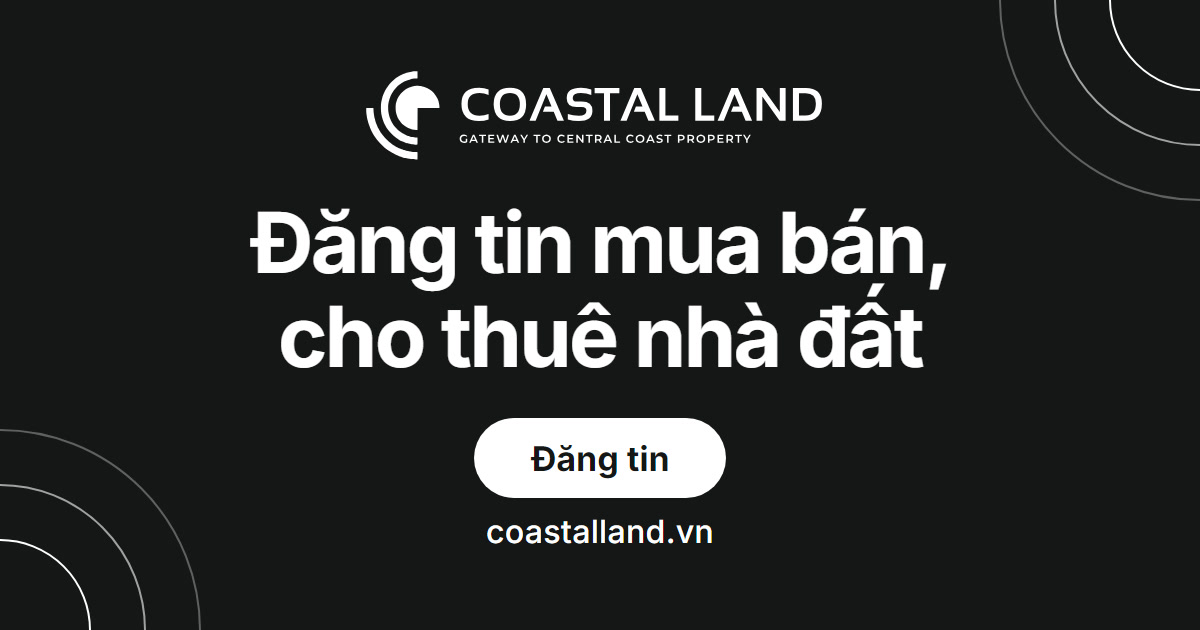
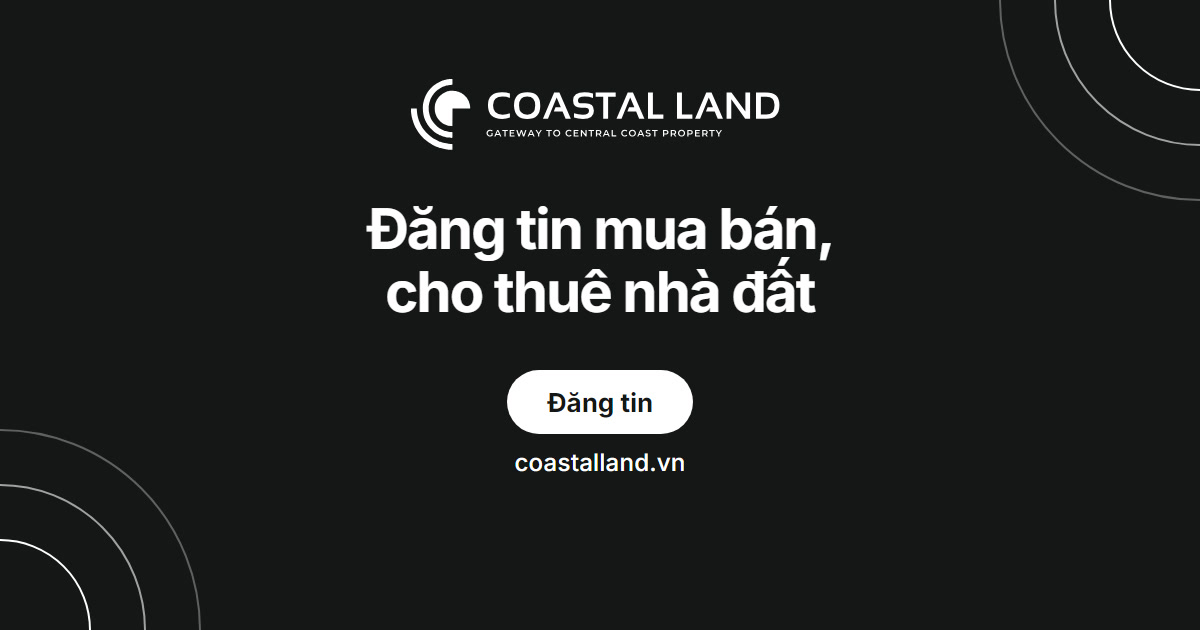
/dang-tin (+ ?mau=2..5): bo cau mo ta duoi anh lien ket (meta + og + twitter description), chi giu tieu de; 5 anh ve ban goc (anh bo ban chu to) - 14/11/2026

Changed region(s): [[0.185, 0.3317, 0.8017, 0.8746], [0.3083, 0.1206, 0.7092, 0.2714]]

diff --git a/src/app/dang-tin/metaDangTin.ts b/src/app/dang-tin/metaDangTin.ts
@@ -1,11 +1,11 @@
 import type { Metadata, ResolvingMetadata } from "next";
 
-// ẢNH ĐẠI DIỆN KHI DÁN LIÊN KẾT /dang-tin lên Facebook, Zalo (anh chọn 14/11/2026, phiên Thiết kế làm): ảnh chữ to
+// ẢNH ĐẠI DIỆN KHI DÁN LIÊN KẾT /dang-tin lên Facebook, Zalo (anh chọn 14/11/2026, phiên Thiết kế làm; bản chữ to anh bỏ): ảnh
 // "Đăng tin mua bán, cho thuê nhà đất" + nút Đăng tin. Chỉ trang này đổi ảnh. 5 mẫu, mỗi mẫu một liên kết:
 // /dang-tin = mẫu 1 · /dang-tin?mau=2..5 = mẫu 2..5 (next.config rewrite sang trang dựng sẵn dang-tin/mau/[n] — không chạy
 // máy chủ mỗi lượt xem; ?mau lạ ở lại mẫu 1). og:url mang ?mau=N để Facebook coi là liên kết riêng; canonical luôn /dang-tin.
-// Mô tả anh duyệt nguyên văn 14/11/2026 (Zalo hiện câu cũ dài dòng) — dùng chung cho Google, Facebook, Zalo.
-const MO_TA = "Cổng đăng tin mua bán, cho thuê nhà đất";
+// KHÔNG mô tả (anh chốt 14/11/2026: dưới ảnh chỉ 1 câu tiêu đề): bỏ meta description + og/twitter description, kể cả bản mặc định
+// của layout. Trang đăng tin là biểu mẫu, không phải trang đích từ khoá — Google tự lấy đoạn chữ trên trang.
 
 export async function metaDangTin(parent: ResolvingMetadata, mau = 1): Promise<Metadata> {
   const p = await parent;
@@ -18,8 +18,8 @@ export async function metaDangTin(parent: ResolvingMetadata, mau = 1): Promise<M
   return {
     alternates: { canonical: "/dang-tin" },
     title: "Đăng tin bất động sản",
-    description: MO_TA,
-    openGraph: { ...p.openGraph, url: mau === 1 ? "/dang-tin" : `/dang-tin?mau=${mau}`, description: MO_TA, images: [anh] },
-    twitter: { ...p.twitter, description: MO_TA, images: [anh.url] },
+    description: null,
+    openGraph: { ...p.openGraph, url: mau === 1 ? "/dang-tin" : `/dang-tin?mau=${mau}`, description: undefined, images: [anh] },
+    twitter: { ...p.twitter, description: undefined, images: [anh.url] },
   };
 }
